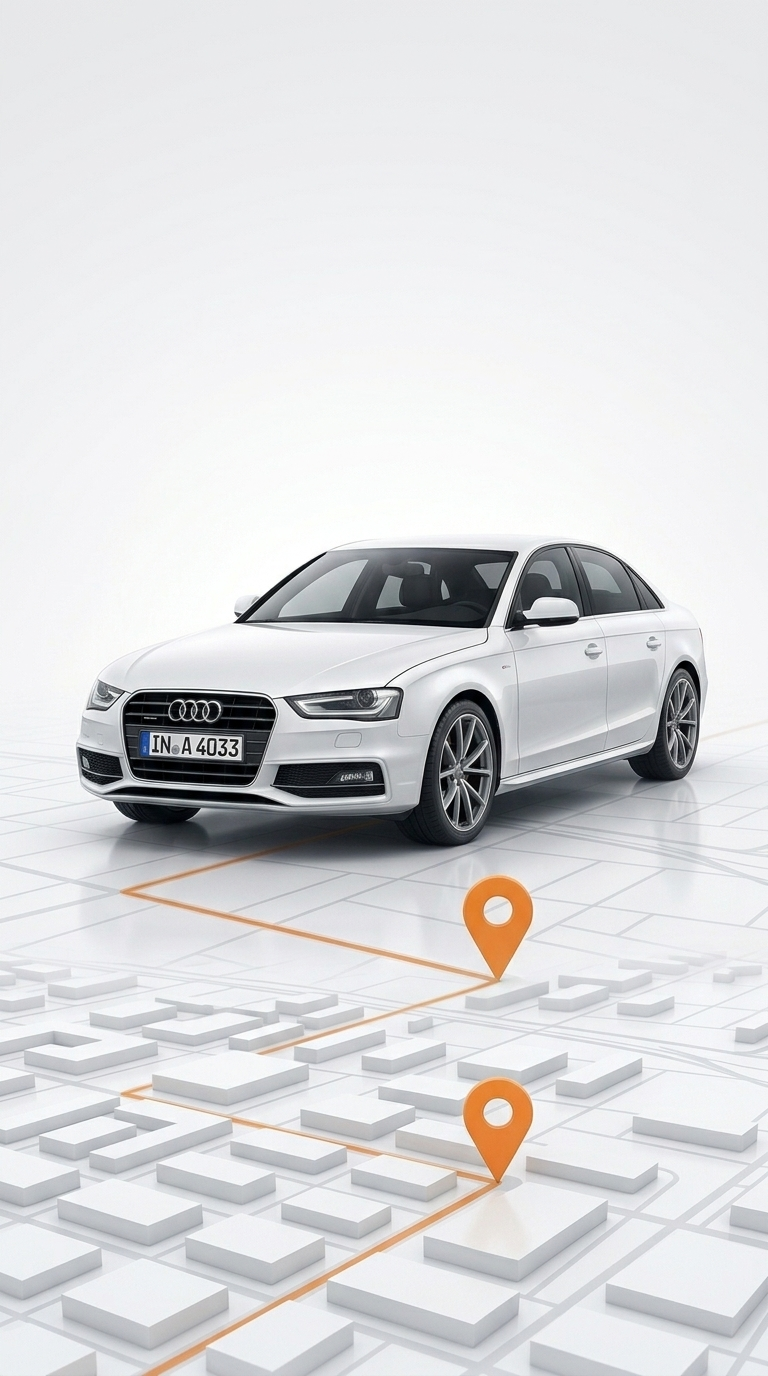
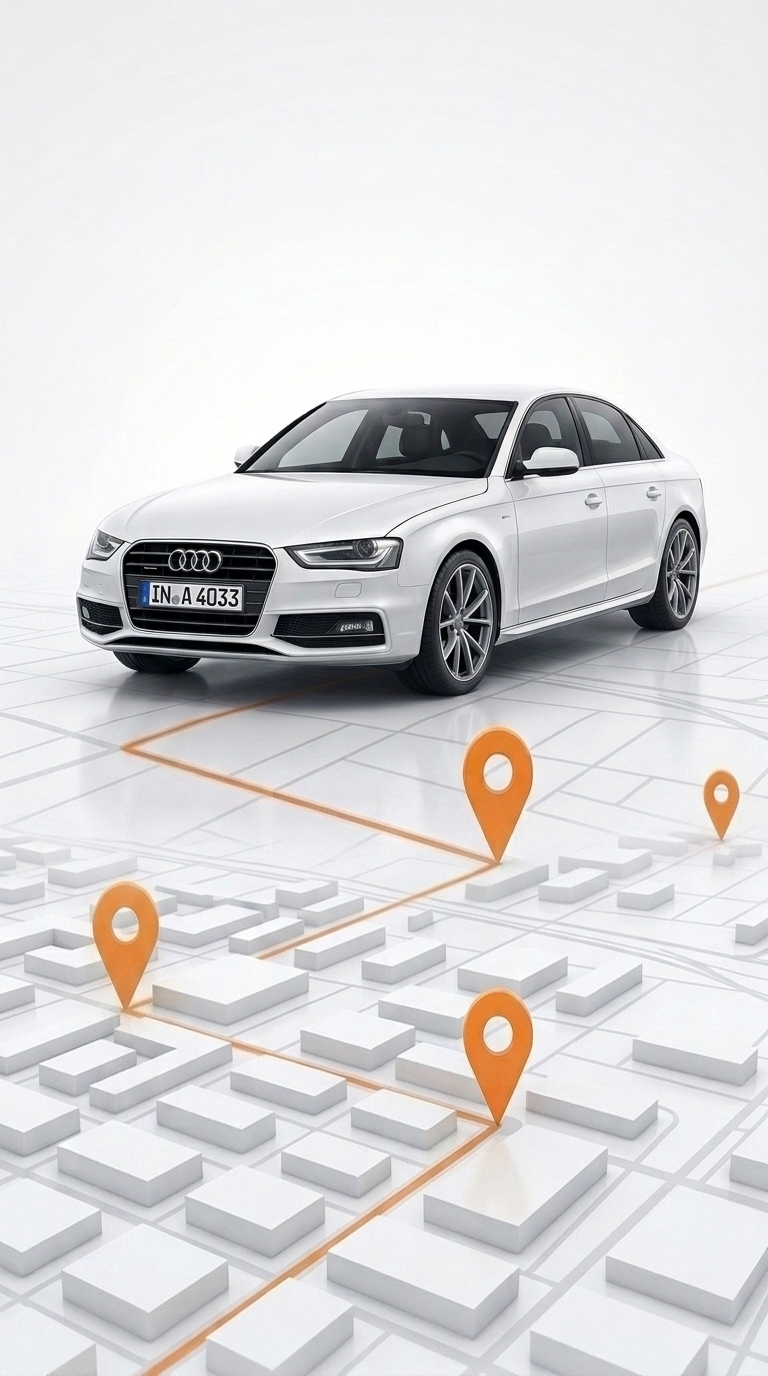
feat(welcome): move background visual higher up and expand 3D map base

diff --git a/apps/mobile/app/welcome.tsx b/apps/mobile/app/welcome.tsx
@@ -101,7 +101,7 @@ export default function WelcomeScreen() {
       {/* Full-Page Background Image covering the entire screen */}
       <Image
         source={require('../assets/welcome_screen_bg.jpg')}
-        style={StyleSheet.absoluteFill}
+        style={styles.backgroundImage}
         resizeMode="cover"
       />
 
@@ -451,6 +451,13 @@ const styles = StyleSheet.create({
     overflow: 'hidden',
     height: Platform.OS === 'web' ? ('100vh' as any) : '100%',
     maxHeight: Platform.OS === 'web' ? ('100vh' as any) : '100%',
+  },
+  backgroundImage: {
+    position: 'absolute',
+    top: -24,
+    left: 0,
+    right: 0,
+    bottom: -24,
   },
   container: {
     flex: 1,
